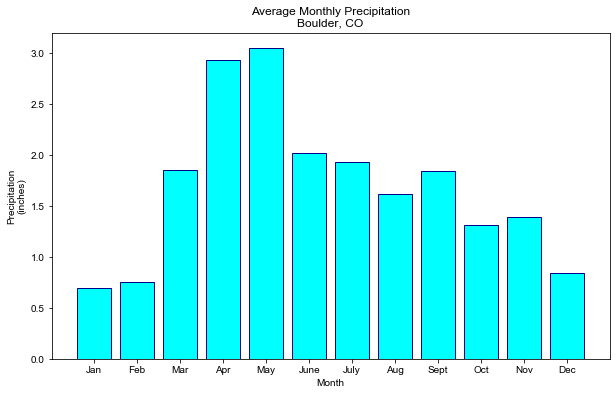
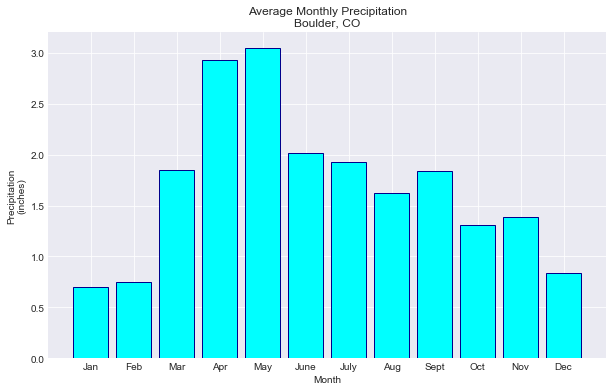
Add jupytext md for chap 1 page 1

Changed region(s): [[0.0, 0.0921, 0.9918, 0.9821], [0.093, 0.0, 0.9918, 0.0921]]

diff --git a/_posts/courses/plot-data-in-python/01-plot-with-matplotlib/intro-to-plotting-matplotlib/2019-09-11-plot-with-matplotlib-01-intro-plotting-matplotlib.md b/_posts/courses/plot-data-in-python/01-plot-with-matplotlib/intro-to-plotting-matplotlib/2019-09-11-plot-with-matplotlib-01-intro-plotting-matplotlib.md
@@ -1,7 +1,7 @@
 ---
 layout: single
 title: "Customize plots in Python using matplotlib"
-excerpt: 'Matplotlib is the most commonly used plotting library in Python. Learn how to get started with creating different types of plots and customizing plot colors and labels using matplotlib.'
+excerpt: 'Matplotlib is the most commonly used plotting library in Python. Learn how to create different types of plots and customize the colors and look of your plot using matplotlib.'
 authors: ['Leah Wasser', 'Jenny Palomino']
 modified: 2019-09-17
 module-title: 'Introduction to Plotting with Matplotlib'
@@ -66,7 +66,7 @@ Be sure that you have completed the chapter on <a href="{{ site.url }}/courses/i
 * what is the ax object
 
 
-## Create Plot Using Matplotlib
+## Create Plots Using Matplotlib
 
 To begin creating a plot using matplotlib's object oriented approach, you first define the initial axes using `plt.subplots()`, and then create the `fig` (figure) and the `ax` objects that you will use to add data and customize the look of your plot. 
 
@@ -131,7 +131,7 @@ months = ["Jan", "Feb", "Mar", "Apr", "May", "June", "July",
           "Aug", "Sept", "Oct", "Nov", "Dec"]
 ```
 
-## Add Data to Plot
+## Add Data to Plots
 
 You can add data to your plot by calling the `ax` object, which is the axis element that you previously defined with: 
 
@@ -160,7 +160,7 @@ ax.plot(months,
 
 
 
-    [<matplotlib.lines.Line2D at 0x7f01883d0ac8>]
+    [<matplotlib.lines.Line2D at 0x7f413438cc18>]
 
 
 
@@ -470,7 +470,7 @@ ax.set(title = "Average Monthly Precipitation\nBoulder, CO",
 
 
 
-## Plot Colors 
+## Customize Plot Colors 
 
 You can customize the color of your plot using the `color` argument and setting it equal to the color that you want to use for the plot. 
 
@@ -612,7 +612,7 @@ ax.set(title = "Average Monthly Precipitation\nBoulder, CO",
 
 
 
-### Additional Ways to Customize Colors For Bar Plots
+### Customize Colors For Bar Plots
 
 You can customize your bar plot further by changing the outline color for each bar to be blue using the argument `edgecolor` and specifying a color from the **matplotlib** color options previously discussed. 
 
@@ -646,7 +646,7 @@ ax.set(title = "Average Monthly Precipitation\nBoulder, CO",
 
 
 
-### Additional Ways Customize Colors For Scatter Plots
+### Customize Colors For Scatter Plots
 
 When using scatter plots, you can also assign each point a color based upon its data value using the `c` and `cmap` arguments.
 
@@ -700,12 +700,15 @@ print(plt.style.available)
 ```
 
 {:.output}
-    ['seaborn-bright', 'seaborn-dark', 'fivethirtyeight', 'seaborn-whitegrid', 'Solarize_Light2', 'seaborn-pastel', 'bmh', 'seaborn-paper', 'seaborn-poster', 'seaborn-dark-palette', 'fast', 'seaborn-talk', 'dark_background', 'ggplot', 'seaborn-white', 'seaborn', 'seaborn-deep', 'seaborn-notebook', 'tableau-colorblind10', '_classic_test', 'seaborn-muted', 'seaborn-colorblind', 'seaborn-darkgrid', 'classic', 'seaborn-ticks', 'grayscale']
+    ['seaborn-poster', 'fivethirtyeight', 'bmh', 'seaborn-colorblind', 'seaborn-bright', 'seaborn-dark', 'seaborn-whitegrid', 'seaborn-ticks', 'seaborn-darkgrid', 'seaborn', 'fast', 'seaborn-dark-palette', 'seaborn-deep', 'seaborn-white', 'seaborn-talk', 'seaborn-muted', 'seaborn-notebook', 'Solarize_Light2', '_classic_test', 'seaborn-pastel', 'dark_background', 'grayscale', 'ggplot', 'classic', 'tableau-colorblind10', 'seaborn-paper']
 
 
 
 {:.input}
 ```python
+# Define matplotlib style
+plt.style.use('seaborn-darkgrid')
+
 # Define plot space
 fig, ax = plt.subplots(figsize=(10, 6))
 
@@ -718,9 +721,7 @@ ax.bar(months,
 # Set plot title and axes labels
 ax.set(title = "Average Monthly Precipitation\nBoulder, CO",
        xlabel = "Month",
-       ylabel = "Precipitation\n(inches)")
-
-plt.style.use('seaborn-darkgrid');
+       ylabel = "Precipitation\n(inches)");
 ```
 
 {:.output}
